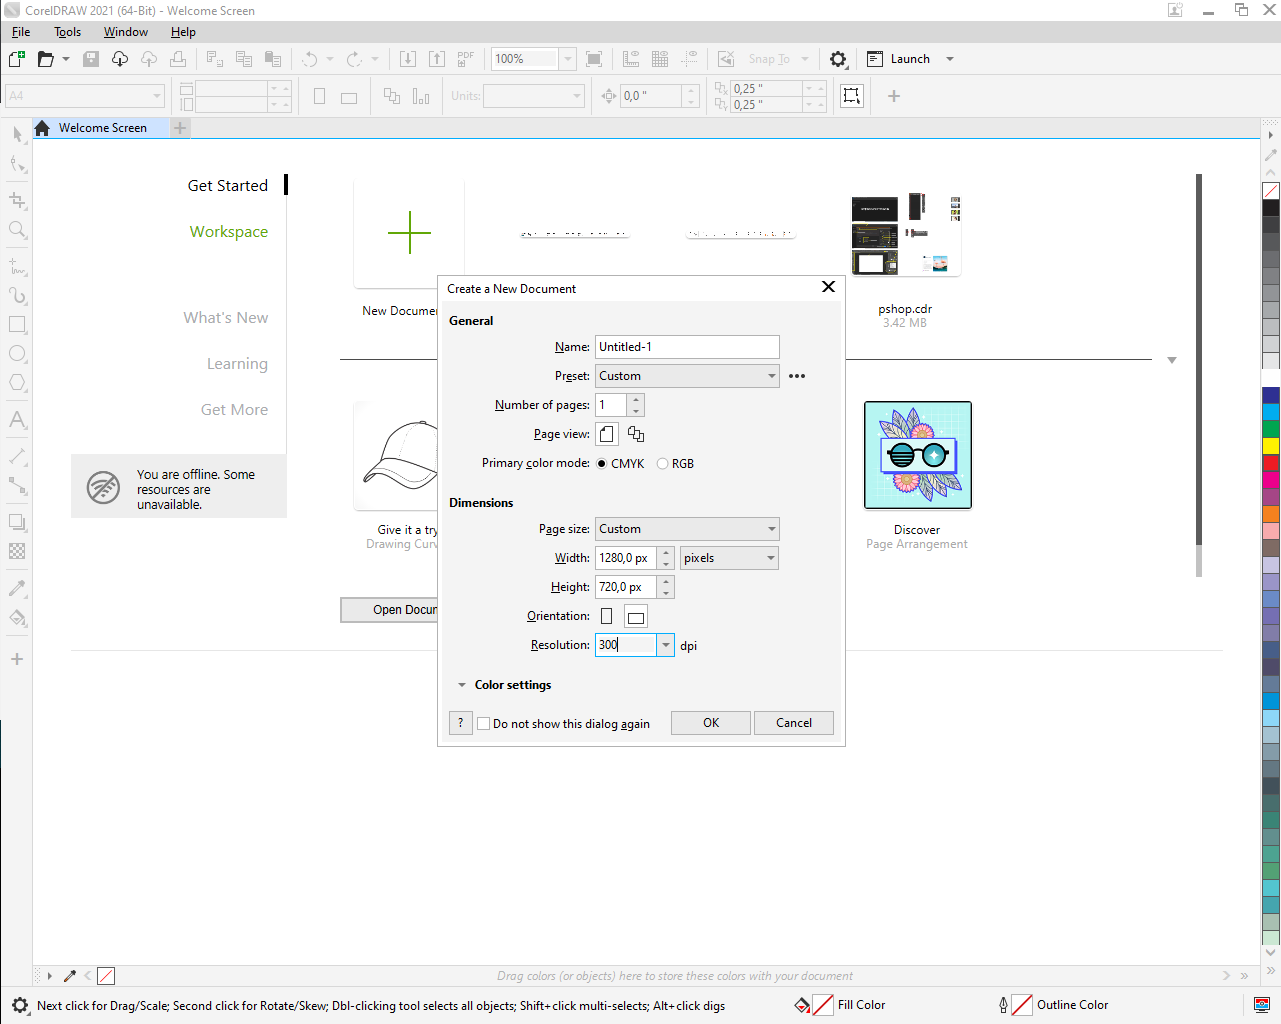
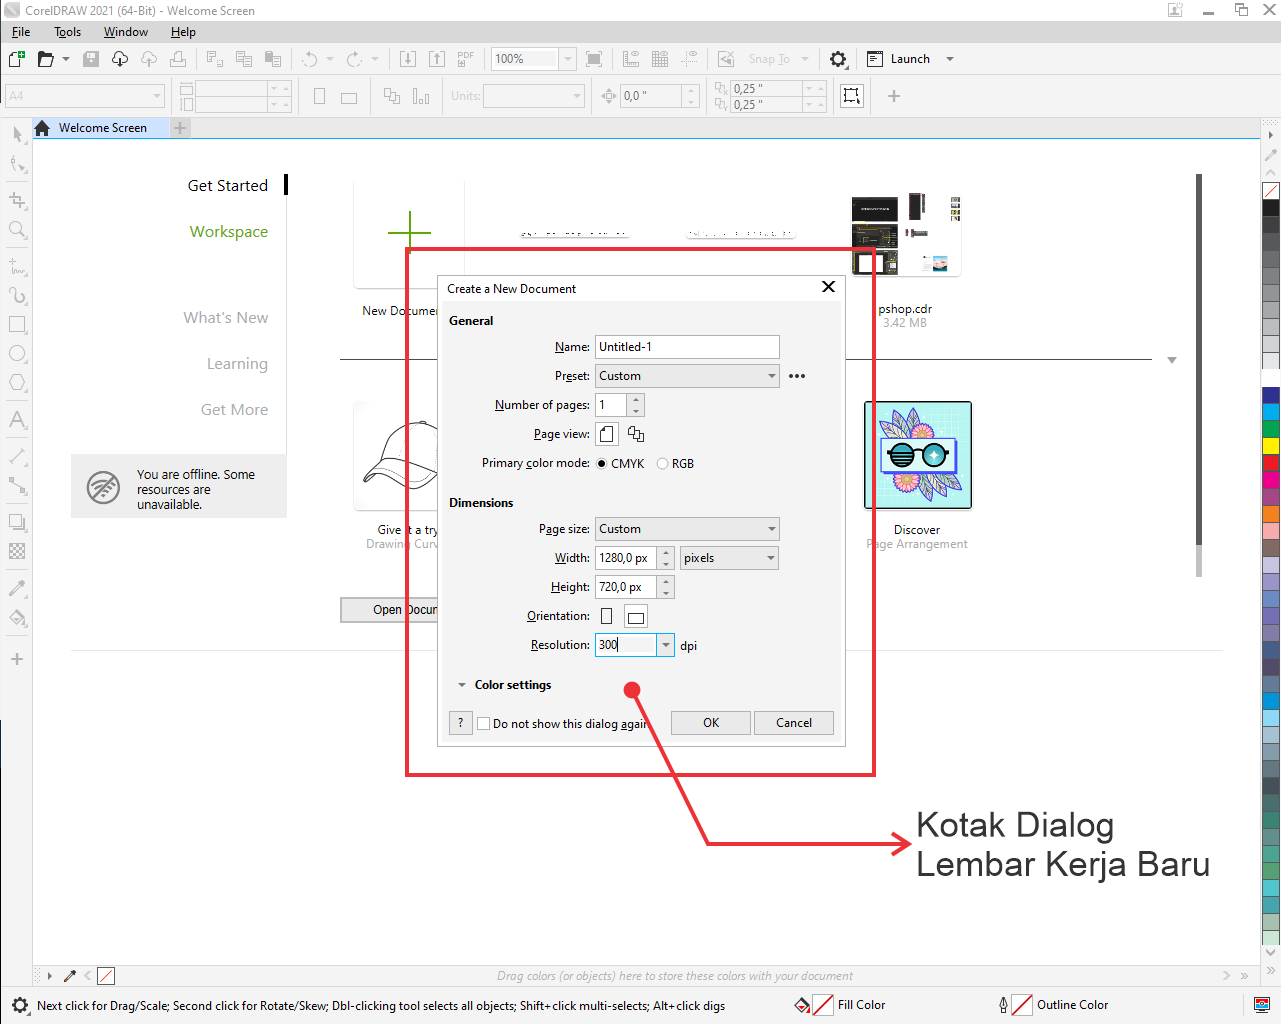
M

diff --git a/coreldraw.html b/coreldraw.html
@@ -159,7 +159,7 @@
               </div>
               <div class="card">
                 <div class="card-body">
-                  <h5 class="card-title mb-2">Tampilan Membuat Dokumen Baru</h5>
+                  <h5 class="card-title mb-2">Tampilan Awal</h5>
                   <img src="img/img-coreldraw/kotak-buat-lembar-baru.png" width="100%" alt="">
                   <p class="card-text mt-2">
                     Keterangan :
@@ -182,14 +182,39 @@
 
               <div class="card">
                 <div class="card-body">
-                  <h5 class="card-title mb-2">Tampilan Dokumen Baru</h5>
+                  <h5 class="card-title mb-2">Tampilan Membuat Dokumen Baru</h5>
                   <img src="img/img-coreldraw/new-doc.png" width="100%" alt="">
                   <p class="card-text mt-2">
                     Beberapa teks contoh cepat untuk dibangun di atas judul
                     kartu dan membuat sebagian besar konten kartu.
                   </p>
-                  <a href="#" class="card-link">Link</a>
-                  <a href="#" class="card-link">Link</a>
+                  <!-- <a href="#" class="card-link">Link</a> -->
+                  <!-- <a href="#" class="card-link">Link</a> -->
+                </div>
+              </div>
+
+              <div class="card">
+                <div class="card-body">
+                  <h5 class="card-title mb-2">Tampilan Lembar Kerja Baru</h5>
+                  <img src="img/img-coreldraw/lembar-kerja-baru.png" width="100%" alt="">
+                  <p class="card-text mt-2">
+                    Keterangan :
+                    <ol>
+                      <li><strong>Tool Bar</strong>, bagian yang berisi beberapa tombol perintah untuk menjalankan suatu
+                        perintah.</li>
+                      <li><strong>Tool Box</strong>, bagian yang berisi beberapa tombol perintah untuk membuat dan
+                        memodifikasi obyek
+                        gambar.</li>
+                      <li><strong>Drawing Page</strong>, area yang digunakan untuk mengolah obyek gambar. Bagian ini
+                        juga merupakan area
+                        pencetakan gambar.</li>
+                      <li><strong>Color Palette</strong>, bagian yang berisi daftar pilihan warna yang dapat kita
+                        gunakan untuk memberi
+                        warna pada obyek gambar.</li>
+                    </ol>
+                  </p>
+                  <!-- <a href="#" class="card-link">Link</a> -->
+                  <!-- <a href="#" class="card-link">Link</a> -->
                 </div>
               </div>
 
@@ -203,16 +228,14 @@
                 </div> -->
                 <div class="card-body">
                   <!-- <h6 class="card-title">Judul</h6> -->
-
                   <video autoplay loop
                     src="video/belajar-coreldraw/CorelDRAW Graphics Suite 2021 - Graphic Design Software.mp4"
                     width="100%"></video>
-
-                  <p class="card-text">
+                  <!-- <p class="card-text">
                     Dengan teks pendukung di bawah ini sebagai petunjuk utama
                     untuk konten tambahan.
-                  </p>
-                  <a href="#" class="btn btn-primary">Selengkapnya</a>
+                  </p> -->
+                  <!-- <a href="#" class="btn btn-primary">Selengkapnya</a> -->
                 </div>
               </div>
 
